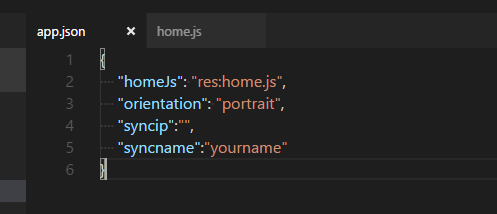
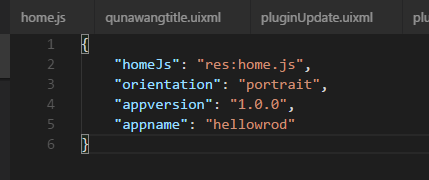
修改

diff --git a/docs/helloworld.md b/docs/helloworld.md
@@ -33,9 +33,9 @@ homeJs:应用的入口js地址，res:前缀是基于apps目录开始；
 
 orientation:横竖屏设置，portrait:竖屏（默认）、landscape:横屏、device:支持横竖屏切换；  
 
-syncip:暂无意义，不用关心。  
+appversion:应用资源版本号。  
 
-syncname：暂无意义，不用关心。  
+appname:应用名称。  
 
 在手机端第一个页面配置Mbuilder同步工具的IP地址和端口，具体的IP端口信息查看下图所示。 
 

diff --git a/docs/ggff.md b/docs/ggff.md
@@ -1289,7 +1289,11 @@ domObj：需添加的子节点对象，必选项；
 
 返回值：无
 
-**注：** 执行该方法，需要刷新容器布局方可生效。
+**注：** 
+
+- 执行该方法，需要刷新容器布局方可生效。
+
+- 向某个容器添加节点的时候，如果该容器正在监听touch系列事件，会造成事件中断。
 
 示例：
 
